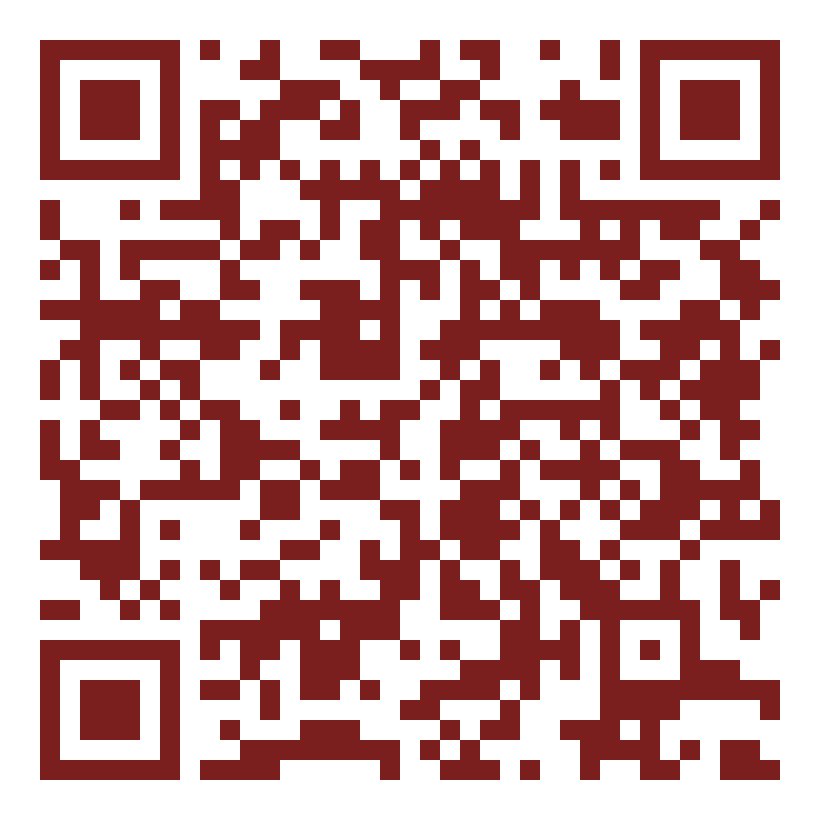
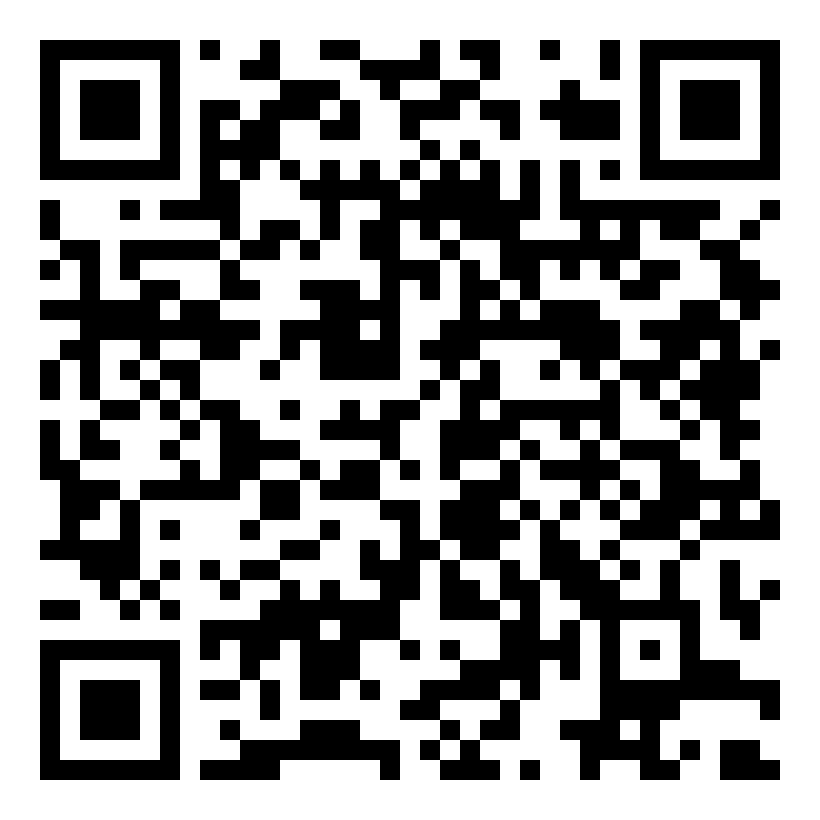
ReviewCTA: fekete QR-kod es 5 csillagos sor 1 csillag helyett
Claude-Session: https://claude.ai/code/session_01Xura3VQGYXuvs9HkfWEjKy

diff --git a/src/components/ReviewCTA.tsx b/src/components/ReviewCTA.tsx
@@ -14,8 +14,12 @@ export function ReviewCTA() {
         className="h-32 w-32 shrink-0 border border-border p-1 sm:h-36 sm:w-36"
       />
       <div>
-        <h2 className="flex items-center justify-center gap-2 font-display text-xl font-semibold sm:justify-start">
-          <Star className="h-5 w-5 text-primary" aria-hidden="true" />
+        <div className="flex items-center justify-center gap-1 sm:justify-start" aria-hidden="true">
+          {Array.from({ length: 5 }).map((_, i) => (
+            <Star key={i} className="h-4 w-4 fill-primary text-primary" />
+          ))}
+        </div>
+        <h2 className="mt-1 font-display text-xl font-semibold">
           Elégedett voltál? Értékelj minket a Google-n!
         </h2>
         <p className="mt-2 max-w-md text-sm leading-relaxed text-muted-foreground">
